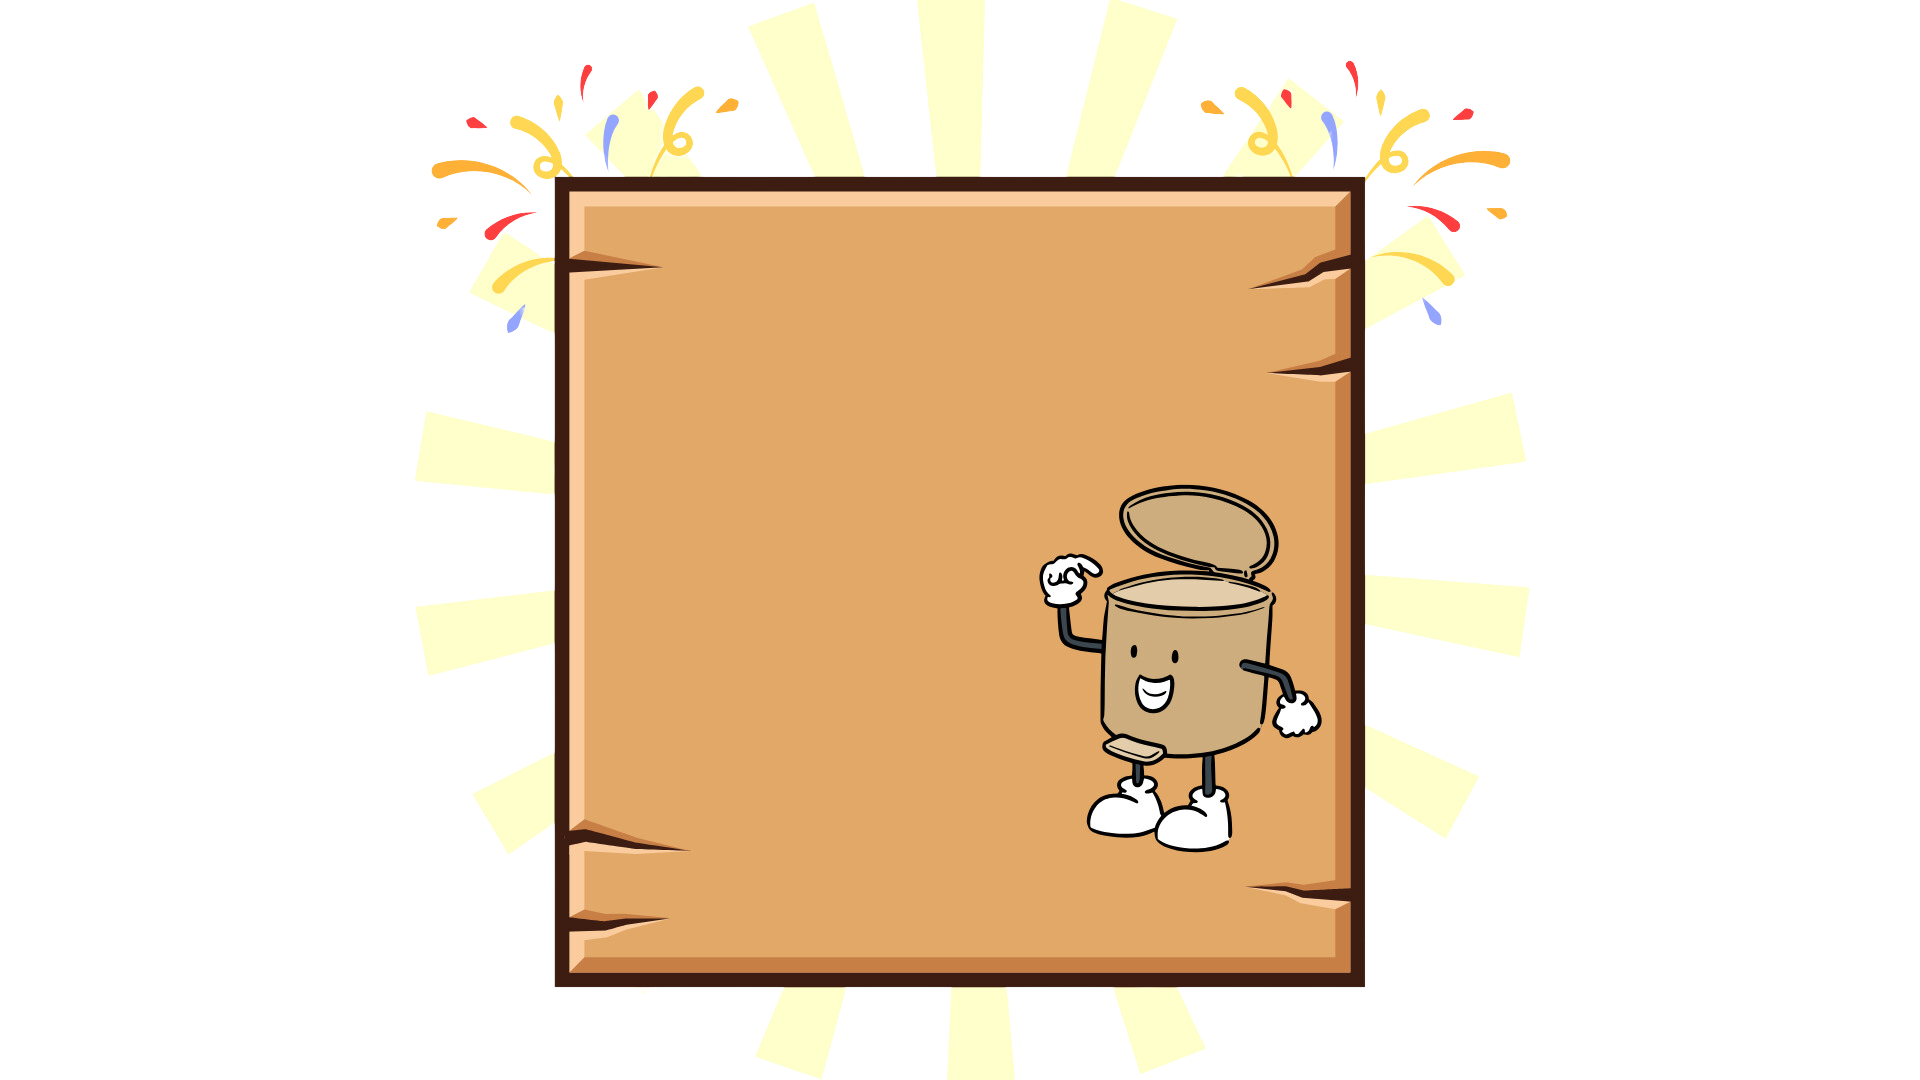
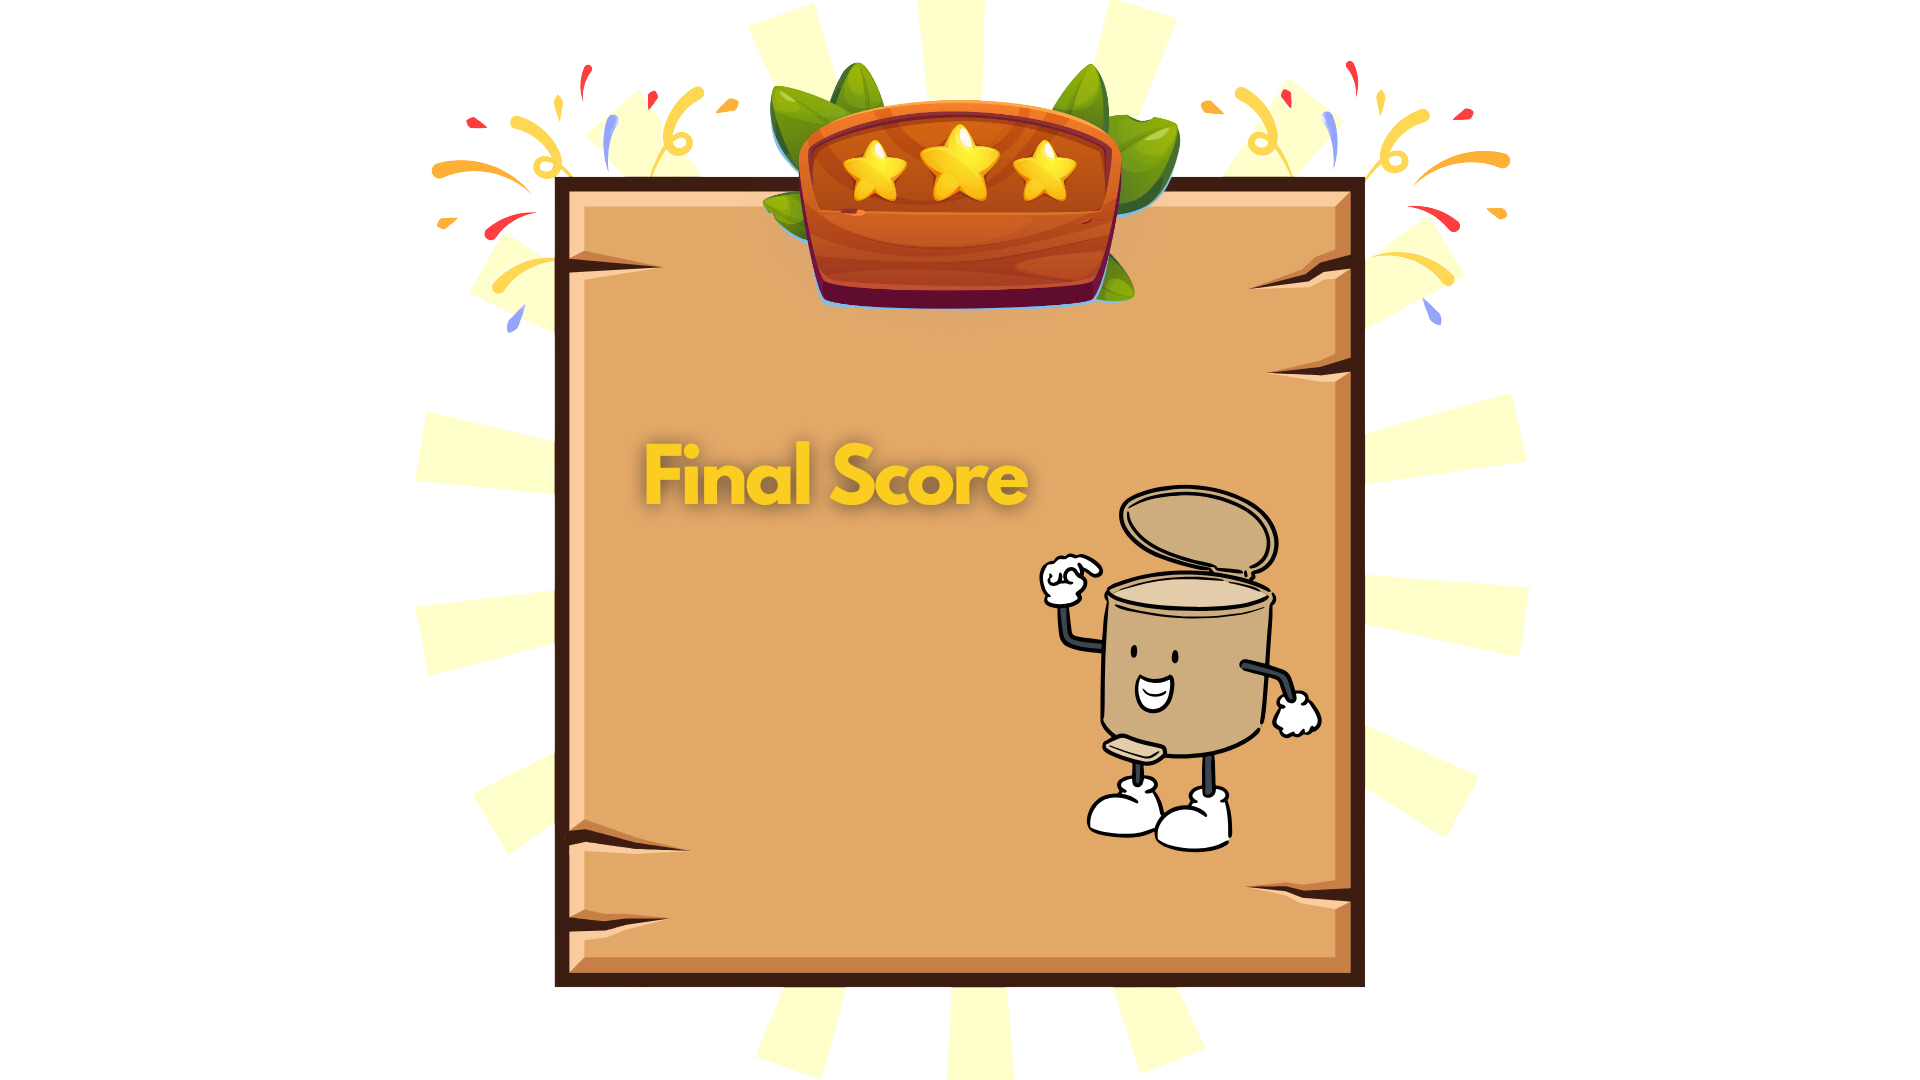
FInalized game over and final score pop up

Changed region(s): [[0.375, 0.0611, 0.625, 0.3056], [0.3125, 0.3972, 0.5625, 0.4889]]

diff --git a/styles.css b/styles.css
@@ -134,6 +134,7 @@ body{
     border: 3px solid #ccc;
     padding: 20px;
     background: rgba(255,255,255,0.5);
+    z-index: 0%;
 }
 
 .unsorted-item img {
@@ -414,9 +415,10 @@ input[type="range"]::-ms-track {
 #addOpacity {
     display: none;
     position: fixed;
+    z-index: 99;
     width: 100%;
     height: 100%;
-    background-color: rgba(0, 0, 0, 0.5);
+    background-color: rgba(0, 0, 0, 0.7);
 }
 
 
@@ -441,4 +443,28 @@ input[type="range"]::-ms-track {
     z-index: 100;
   }
 
+  #reset1 {
+    background-image: url("Updated Picture/Assets/restart.png");
+    background-color: transparent;
+    background-size: contain;
+    background-repeat: no-repeat;
+    background-position: center;
+    margin-top: 60%;
+    width: 150px; 
+    height: 150px; 
+    border: none;
+    cursor: pointer;
+}
+#return1 {
+    background-image: url("Updated Picture/Assets/testtttttttttt.png ");
+    background-color: transparent;
+    background-size: contain;
+    background-repeat: no-repeat;
+    background-position: center;
+    margin-right: 25%;
+    width: 150px; 
+    height: 150px; 
+    border: none;
+    cursor: pointer;
+}
   

diff --git a/script.js b/script.js
@@ -2,7 +2,7 @@ let score = 0;
 let trashes = loadTrashes()
 let trash = getTrash()
 let count = 12;
-let heart = 1;
+let heart = 3;
 
 let scoreElement = document.querySelector(".score-container h3");
 
@@ -263,11 +263,20 @@ resetBtn.addEventListener('click', () => {
     window.location.href = 'index.html';
 });
 
+// Final Score Button
+const returnBtn1 = document.getElementById('return1');
+returnBtn1.addEventListener('click', () => {
+    window.location.href = 'main-menu.html';
+});
 
+const resetBtn1 = document.getElementById('reset1');
+resetBtn1.addEventListener('click', () => {
+    window.location.href = 'index.html';
+});
 
 
 // Layout 
-const startTime = 5; 
+const startTime = 60; 
 let time = startTime; 
 const countDown = document.getElementById('countdown');
 
@@ -308,7 +317,7 @@ function updateCountdown() {
         clearInterval(timerInterval);
     }
 
-    if(time === 0){
+    if(time == 0){
         var finalScoreScreen = document.getElementById("finalScoreContainer");
         finalScoreScreen.style.display = "flex";
         var finalScoreOpacity = document.getElementById("addOpacity");

diff --git a/index.html b/index.html
@@ -15,18 +15,17 @@
                 <button class = "reset" id = "reset"></button>
                 <button class = "return" id = "return"> </button>
             </div>
-        </div>
+        </div> 
         
-    <div class="main-container">
-         <div id="finalScoreContainer">
+        <div id ="finalScoreContainer">  
             <div id="finalScoreChild">
-                <button class = "reset" id = "reset" ></button>
-                <button class = "return" id = "return"> </button>
+                <button class = "reset1" id = "reset1"></button>
+                <button class = "return1" id = "return1"> </button>
         </div>
     </div>
+    
 
-    <div class="main-container">
-        
+    <div class="main-container">   
         <div class="title-and-score-container">
             <h2>Segregation Game</h2>
             <div class="score-container">
